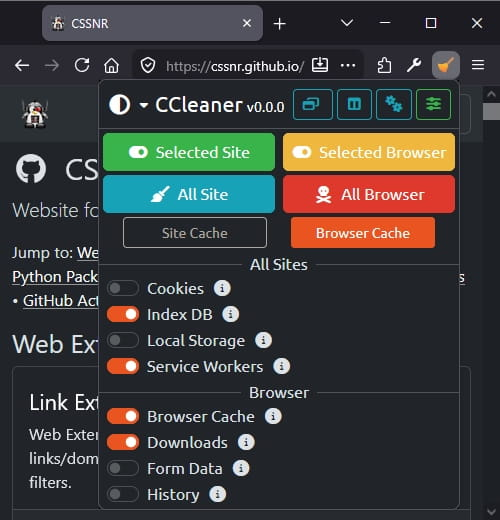
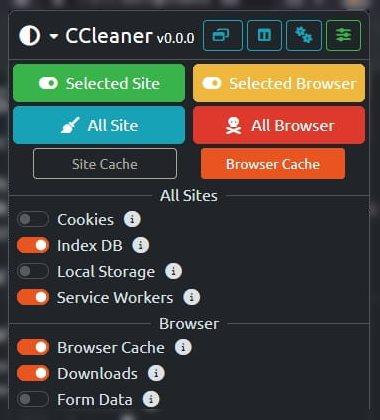
Swiper

diff --git a/docs/.vitepress/theme/index.ts b/docs/.vitepress/theme/index.ts
@@ -10,8 +10,8 @@ import Contributors from '@cssnr/vitepress-plugin-contributors'
 import '@cssnr/vitepress-plugin-contributors/style.css'
 import contributors from '../contributors.json'
 
-// import VPSwiper from '@cssnr/vitepress-swiper'
-// import '@cssnr/vitepress-swiper/style.css'
+import VPSwiper from '@cssnr/vitepress-swiper'
+import '@cssnr/vitepress-swiper/style.css'
 
 // noinspection JSUnusedGlobalSymbols
 export default {
@@ -25,6 +25,6 @@ export default {
     app.component('Contributors', Contributors)
     app.config.globalProperties.$contributors = contributors
 
-    // app.component('VPSwiper', VPSwiper)
+    app.component('VPSwiper', VPSwiper)
   },
 } satisfies Theme

diff --git a/docs/usage.md b/docs/usage.md
@@ -14,7 +14,15 @@ You may need to pin the icon to the toolbar depending on your browser.
 The popup can also be activated via a [keyboard shortcut](#keyboard-shortcuts),
 the [context menu](#context-menu), or the [side panel](#side-panel).
 
-![Site](/images/usage/site.jpg)
+<VPSwiper
+:slides="[
+'/images/usage/site.jpg',
+'/images/usage/browser.jpg',
+'/images/usage/options.jpg',
+]"
+:pagination="{ clickable: true }"
+height="360px"
+/>
 
 **Popup Features**
 
@@ -31,7 +39,7 @@ For more details see the [options page](options.md#extension-options).
 The right-click context menu can be enabled/disabled from the [options page](options.md#extension).
 You can also choose which items show up on the context menu.
 
-![Context Menu](/images/usage/context.jpg)
+![Context Menu](/images/usage/ctx.jpg)
 
 :bulb: If you choose only 1 item to be displayed, there won't be a submenu to navigate.
 

diff --git a/docs/install.md b/docs/install.md
@@ -44,13 +44,13 @@ Available for all major browsers including [Firefox Android](https://addons.mozi
 - [Chrome Web Store](https://chromewebstore.google.com/detail/nbkhplnnajkikghffmincdbipjalpobi)
 - [Mozilla Firefox Addons](https://addons.mozilla.org/addon/cache-cleaner-addon)
 
+For more details see the [usage guide](usage.md) and review the [options](options.md).
+
 [![QR Code Firefox](/images/qr/firefox.png)](https://addons.mozilla.org/addon/cache-cleaner-addon)
 
 &nbsp;
 
 [![QR Code Chrome](/images/qr/chrome.png)](https://chromewebstore.google.com/detail/nbkhplnnajkikghffmincdbipjalpobi)
-
-For more details see the [usage guide](usage.md) and review the [options](options.md).
 
 ## Features
 
